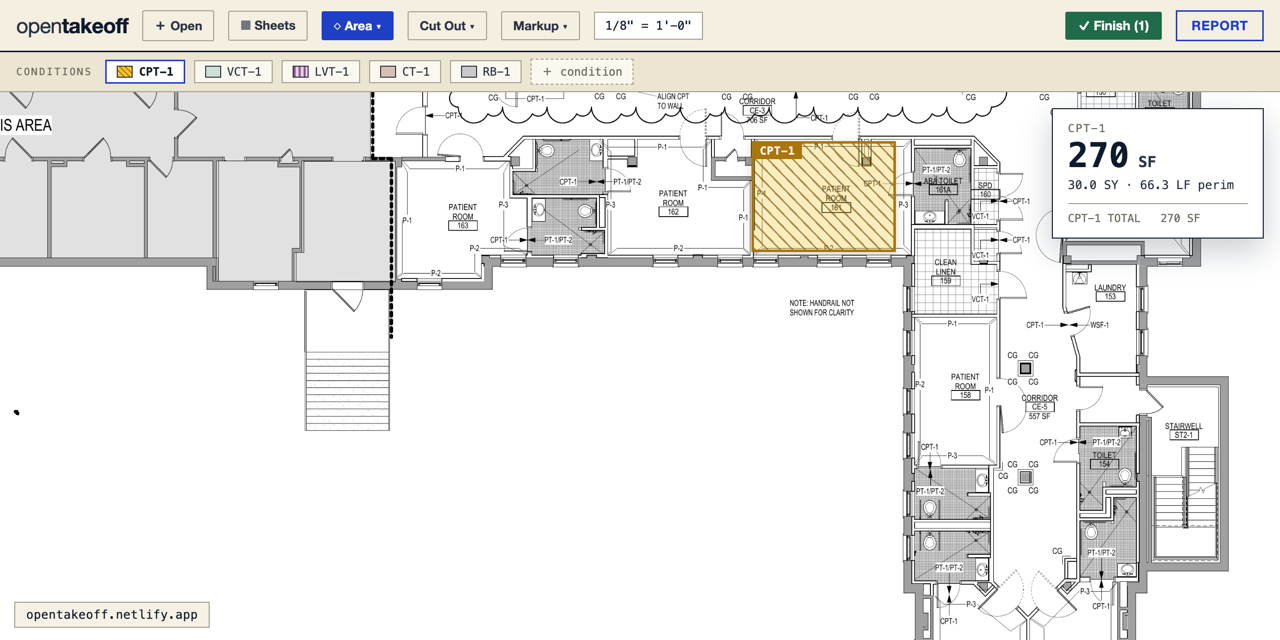
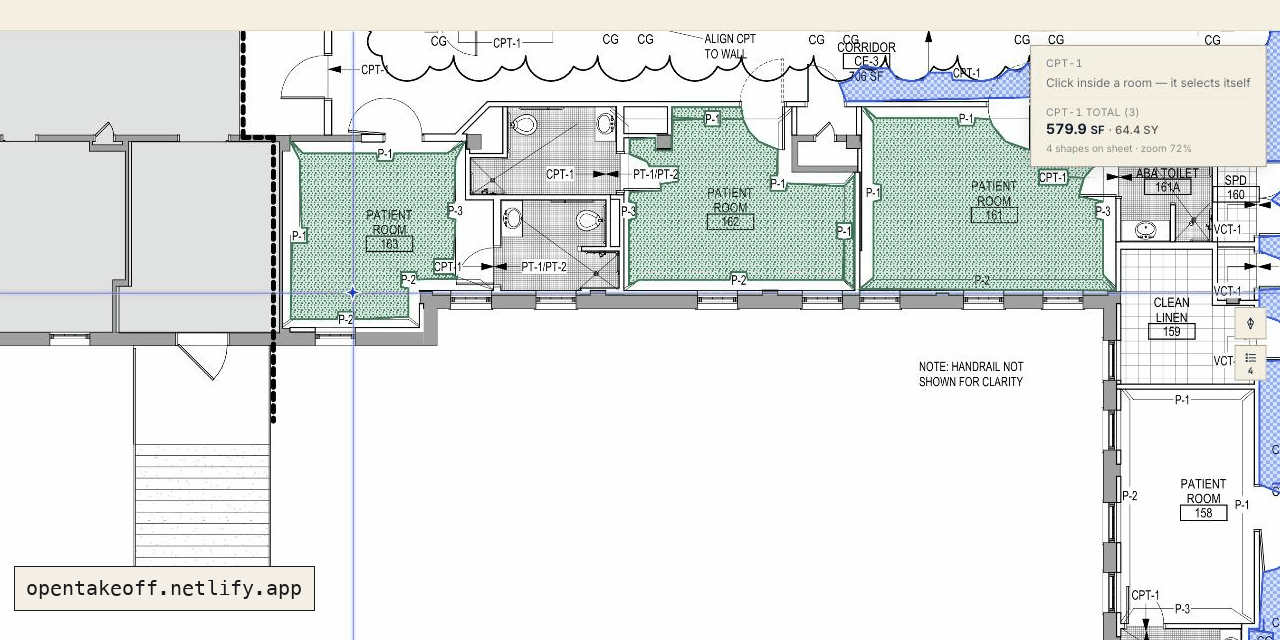
docs(imagery): refresh every public image from the live app — and a flagship GIF
All three assets re-captured from the current build working the bundled
VA finish plan, replacing compositions that predate the rail, dark view,
and Marked Set:

- one-click-area.gif (new) — One-Click Area live: one click inside a
  patient room, the room traces itself (154.6 SF), Enter commits.
  Embedded in the README's measuring-engine section.
- social-card.png / og-card.png — three carpet rooms + a 589 SF corridor
  traced, HUD totals showing; site URL chip. og:image:alt updated.
- report.png — two-condition report with the materials buy list and the
  Marked Set button in frame.

diff --git a/web/index.html b/web/index.html
@@ -13,7 +13,7 @@
     <meta property="og:image" content="https://opentakeoff.netlify.app/og-card.png" />
     <meta property="og:image:width" content="1280" />
     <meta property="og:image:height" content="640" />
-    <meta property="og:image:alt" content="OpenTakeoff measuring a carpet-tile room on a floor finish plan — 270 SF traced." />
+    <meta property="og:image:alt" content="OpenTakeoff — three patient rooms and a corridor traced on a real floor finish plan, 579.9 SF of carpet counted." />
     <meta name="twitter:card" content="summary_large_image" />
     <meta name="twitter:title" content="OpenTakeoff — free, open-source flooring & construction takeoff" />
     <meta name="twitter:description" content="A free, open-source PDF takeoff canvas. Trace areas, organize by finish, export quantities — runs entirely in your browser, no account." />

diff --git a/README.md b/README.md
@@ -53,6 +53,10 @@ Drag in a plan **PDF**, an **image** (a scan or a screenshot), or a whole **`.zi
 ### 2. A real measuring engine — not a counter with a ruler
 **One-Click Area** is the headline: click inside a room and the linework bounds it, the polygon traces itself, and the vertices snap to true corners. It reads the drawing the way an estimator does — **hatching and poché don't fool it**: tile grids, plank lines, and section fills are classified as pattern, not wall, so a click inside a fully hatched room still traces the room (and a misread can never make the result worse than the strict fill — it escalates only when the strict pass comes back trapped). Plus the full manual kit — **Area, Rectangle, Linear, Surface-Area (walls), Count,** and **Deduct** (for columns, voids, and openings). This is the same engine pulled out of a commercial estimating app, not a toy reimplementation.
 
+<div align="center">
+<img src="docs/img/one-click-area.gif" alt="One-Click Area on a real finish plan: one click inside a patient room and the room traces itself — 154.6 SF, committed on Enter" width="820"/>
+</div>
+
 Manual tracing gets a real drafting aid: **45°/90° angle lock**. Come within a few degrees of square or diagonal and the segment you're drawing locks onto the axis — the click commits the locked point, so walls come out dead square (hold **⇧** to force the lock at any angle). On the canvas the crosshair **is** the cursor: the OS pointer hides, a star marks the crossing, and in-progress work draws in the instrument's own cobalt (committed shapes wear their condition color). The lock reads quietly — the star swells, the preview thickens, and a chip by the cursor shows the locked angle plus the **live segment length**. No extra chrome on your sheet.
 
 ### 3. Scale that matches real plan sets